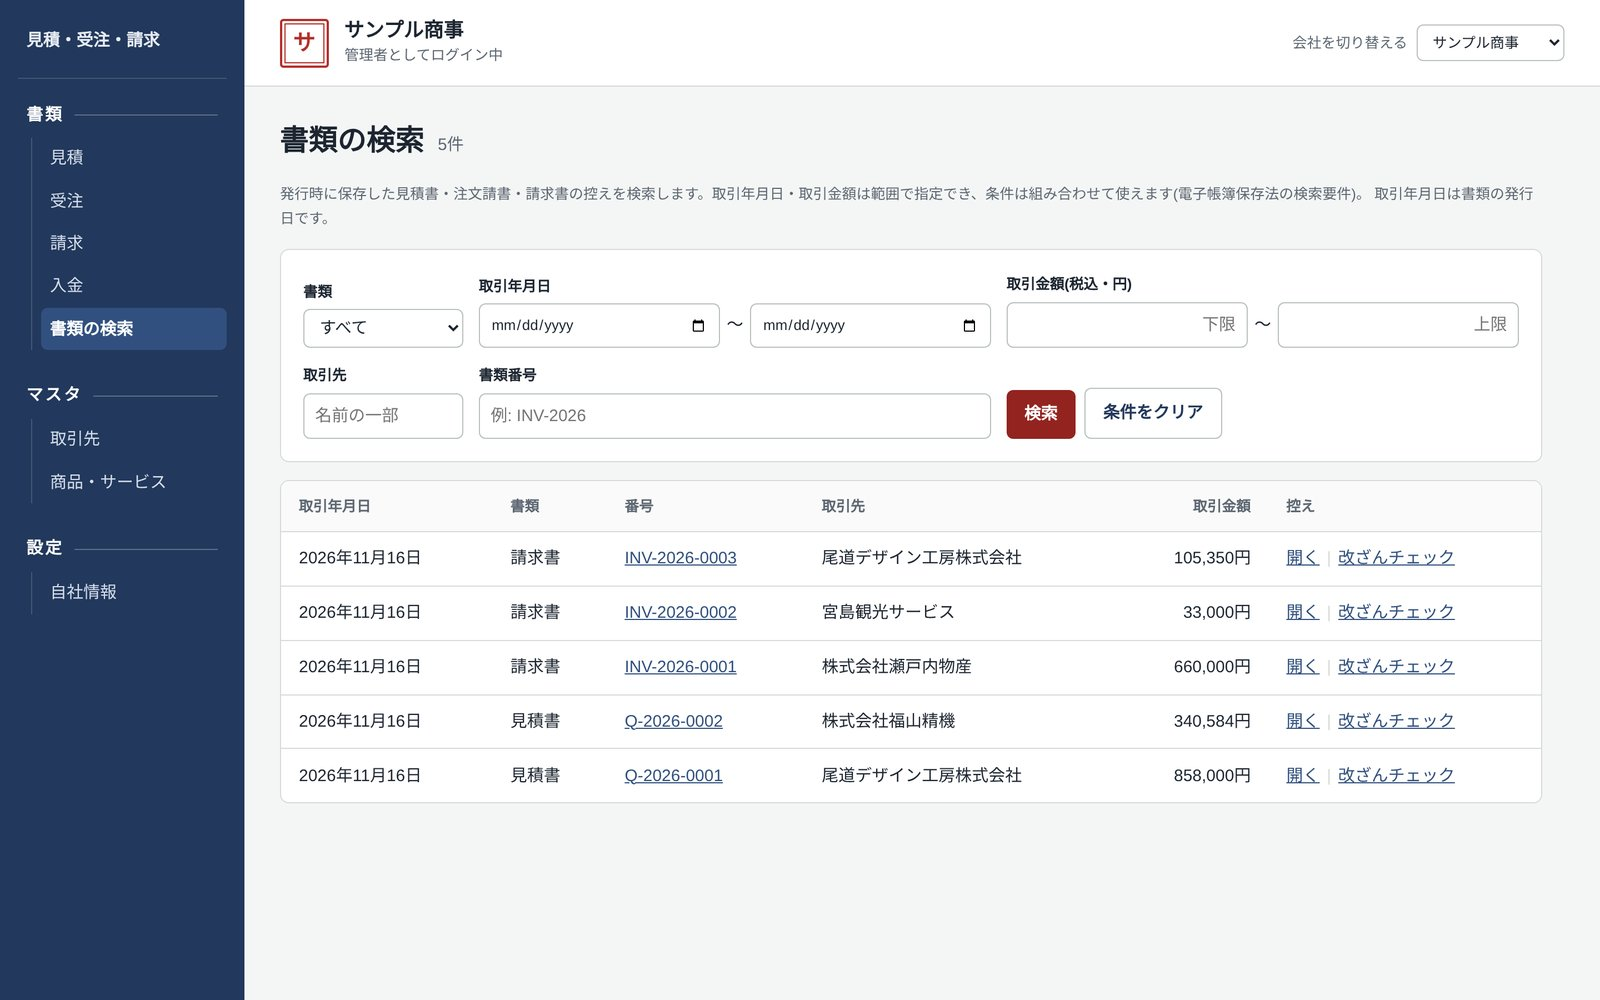
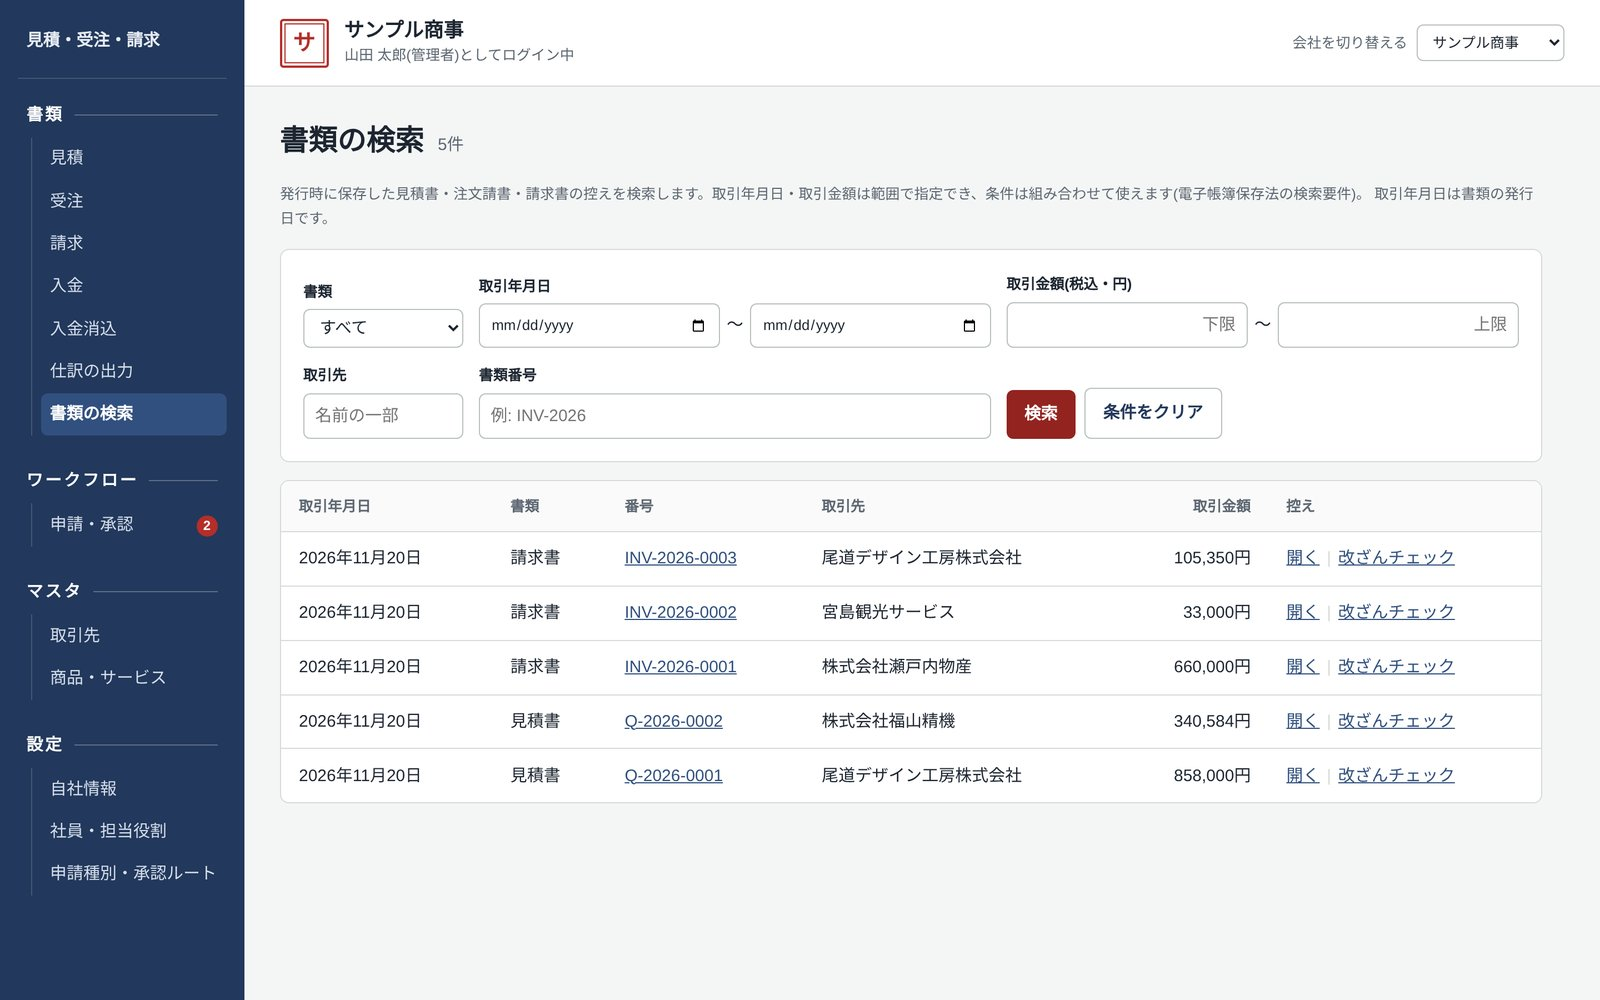
ワークフロー追加

diff --git a/index.html b/index.html
@@ -211,7 +211,7 @@ footer .wrap{display:flex;justify-content:space-between;padding-top:28px;padding
           </div>
           <div class="shots" data-shots="smeShots"></div>
           <p class="shots-note">画面はすべて架空のデータです。画像をクリックすると拡大して開きます</p>
-          <p class="problem">中小企業の見積から請求までは、Excelの書式と手作業の転記で回っていることが多く、インボイス制度や電子帳簿保存法への対応も負担になっています。見積を受注へ、受注を請求書へと引き継ぎ、月締めのまとめ請求、銀行の明細を使った入金消込、会計ソフトへの仕訳の受け渡しまでを一つの流れにしました。同じコードのまま、複数の会社で共有するサービスとしても、会社ごとの専用環境としても動かせる構成です。</p>
+          <p class="problem">中小企業の見積から請求までは、Excelの書式と手作業の転記で回っていることが多く、インボイス制度や電子帳簿保存法への対応も負担になっています。見積を受注へ、受注を請求書へと引き継ぎ、月締めのまとめ請求、銀行の明細を使った入金消込、会計ソフトへの仕訳の受け渡しまでを一つの流れにしました。経費精算や購買などの社内の申請と承認(ワークフロー)も、同じアプリで扱えます。同じコードのまま、複数の会社で共有するサービスとしても、会社ごとの専用環境としても動かせる構成です。</p>
           <ul class="tags"><li>Python</li><li>FastAPI</li><li>React</li><li>TypeScript</li><li>PostgreSQL</li><li>Docker</li></ul>
           <div class="links">
             <a class="btn" data-href="smeRepo" target="_blank" rel="noopener">GitHubで見る</a>
@@ -227,6 +227,7 @@ footer .wrap{display:flex;justify-content:space-between;padding-top:28px;padding
                   <li>取引先ごとの締め日による月締めのまとめ請求、繰越の表示、一部入金とまとめ入金</li>
                   <li>銀行の入出金明細(CSV)を取り込み、振込名義と金額から請求書の候補を出す入金消込。振込手数料を差し引いた入金にも対応</li>
                   <li>勘定奉行・弥生会計・freee会計・マネーフォワード クラウド会計の取り込み形式での仕訳CSVの出力</li>
+                  <li>経費精算・購買申請・休暇申請などの申請と承認。上長・経理担当・代表などの順に承認し、差戻しと再申請、コメント、領収書の添付まで、スマホでも完結</li>
                   <li>商品・サービスマスタからの明細入力</li>
                   <li>個人事業主への対応(屋号の印字、免税事業者、源泉徴収)</li>
                   <li>解約に備えた、全データのCSVと控えPDFの一括書き出し</li>
@@ -240,7 +241,8 @@ footer .wrap{display:flex;justify-content:space-between;padding-top:28px;padding
                   <li>発行した書類は控えのPDFとハッシュ値を残し、変更や削除をデータベースで禁止した。日付・金額・取引先で検索できる(電子帳簿保存法を想定)</li>
                   <li>銀行ごとに違う明細の列の並び・文字コード・和暦の日付を吸収し、振込名義は半角カナや「カ)」などの法人の略語をそろえて照合した</li>
                   <li>仕訳は出力済みを記録して二重計上を防ぎ、出力後に訂正・取消した請求書や入金は逆仕訳で打ち消すようにした</li>
-                  <li>同時に操作しても二重に請求されないようにし、163件の自動テストで確かめた</li>
+                  <li>承認ルートは申請した時点で、社員の上長と担当役割から自動で組み立てる。金額の条件で承認の段を足し、申請者本人が承認者になる段は省く。承認の記録は、その段の承認者本人しか書けないようデータベースでも確かめた</li>
+                  <li>同時に操作しても二重に請求されないようにし、211件の自動テストで確かめた</li>
                 </ul>
               </div>
             </div>
@@ -375,7 +377,7 @@ footer .wrap{display:flex;justify-content:space-between;padding-top:28px;padding
           <span class="when">2026年11月〜</span>
           <div>
             <h3>見積・受注・請求アプリ</h3>
-            <p>経理の実務経験をもとに、中小企業の見積から請求・入金消込・会計ソフトへの仕訳の受け渡しまでをつなぐ業務アプリを開発しています。</p>
+            <p>経理の実務経験をもとに、中小企業の見積から請求・入金消込・会計ソフトへの仕訳の受け渡しまでをつなぐ業務アプリを開発しています。社内の申請と承認(ワークフロー)の機能も加えました。</p>
           </div>
         </div>
       </div>
@@ -446,9 +448,13 @@ const CONFIG = {
   ],
   smeShots: [
     { src: "images/sme-quote.jpg", label: "見積の作成" },
+    { src: "images/sme-invoice.jpg", label: "請求書(入金の管理)" },
     { src: "images/sme-invoice-pdf.jpg", label: "請求書PDF" },
+    { src: "images/sme-documents.jpg", label: "書類の検索" },
     { src: "images/sme-reconcile.jpg", label: "入金消込" },
-    { src: "images/sme-journal.jpg", label: "仕訳の出力" }
+    { src: "images/sme-journal.jpg", label: "仕訳の出力" },
+    { src: "images/sme-workflow.jpg", label: "申請と承認ルート" },
+    { src: "images/sme-workflow-settings.jpg", label: "承認ルートの設定" }
   ],
   portalShots: [
     { src: "images/portal-app.png", label: "社員画面" },
